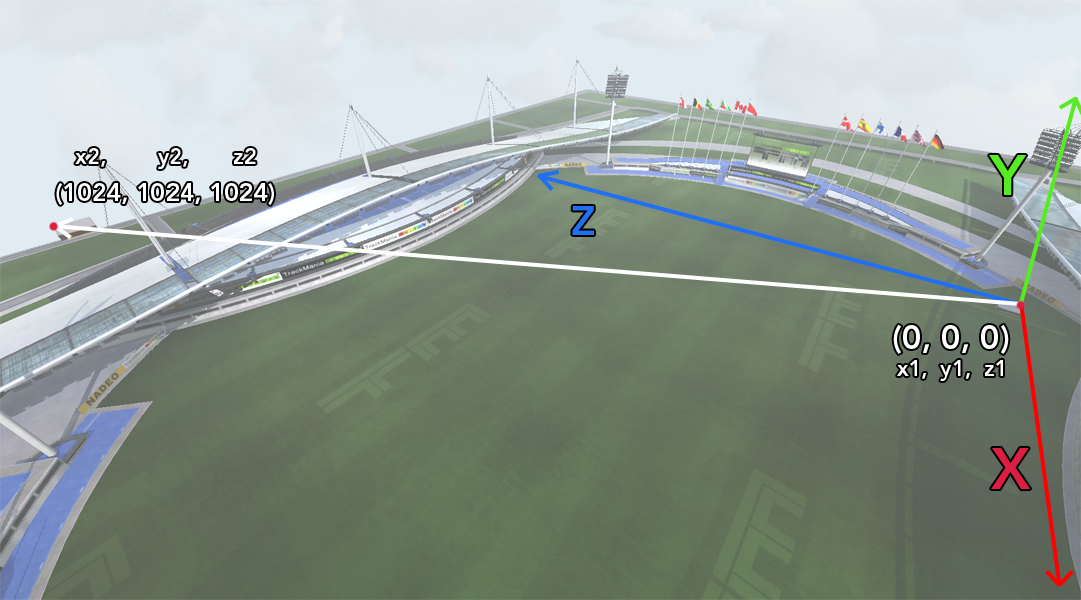
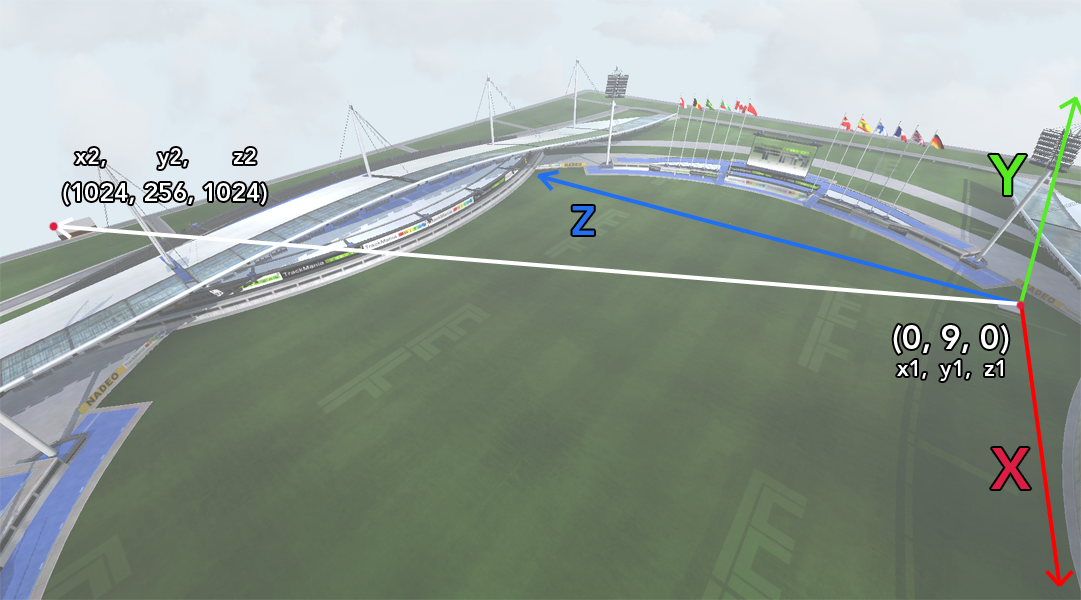
Fix dimensions

Changed region(s): [[0.0305, 0.3, 0.2747, 0.36], [0.8548, 0.54, 0.8853, 0.6]]

diff --git a/tminterface/triggers.md b/tminterface/triggers.md
@@ -9,7 +9,7 @@ Triggers are a part of the builtin TMInterface bruteforce script that allow you 
 Because triggers are a custom feature of TMInterface, they can be evaluated much more precisely than a simple finish/checkpoint time. There are different metrics available to choose how a trigger should be evaluated.
 
 ### Stadium coordinate system
-A trigger is marked with begin and end point coordinates that lie within the track. The available Stadium building area itself has a size of **1024x1024x1024** units:
+A trigger is marked with begin and end point coordinates that lie within the track. The available Stadium building area itself has a size of **1024x256x1024** units:
 
 <img style="margin-top: 40px; width: 100%; margin-bottom: 30px" src="{{ site.baseurl }}/assets/images/trigger_stad_1.png"/>
 
